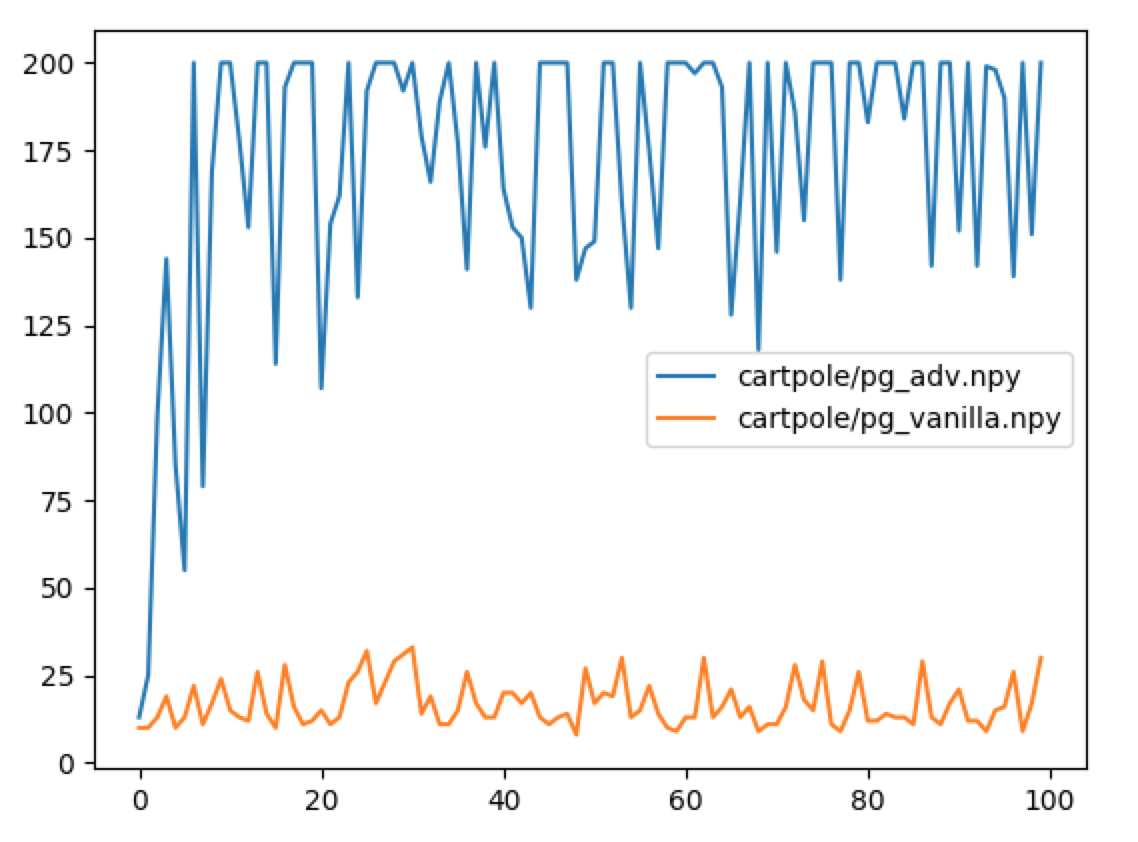
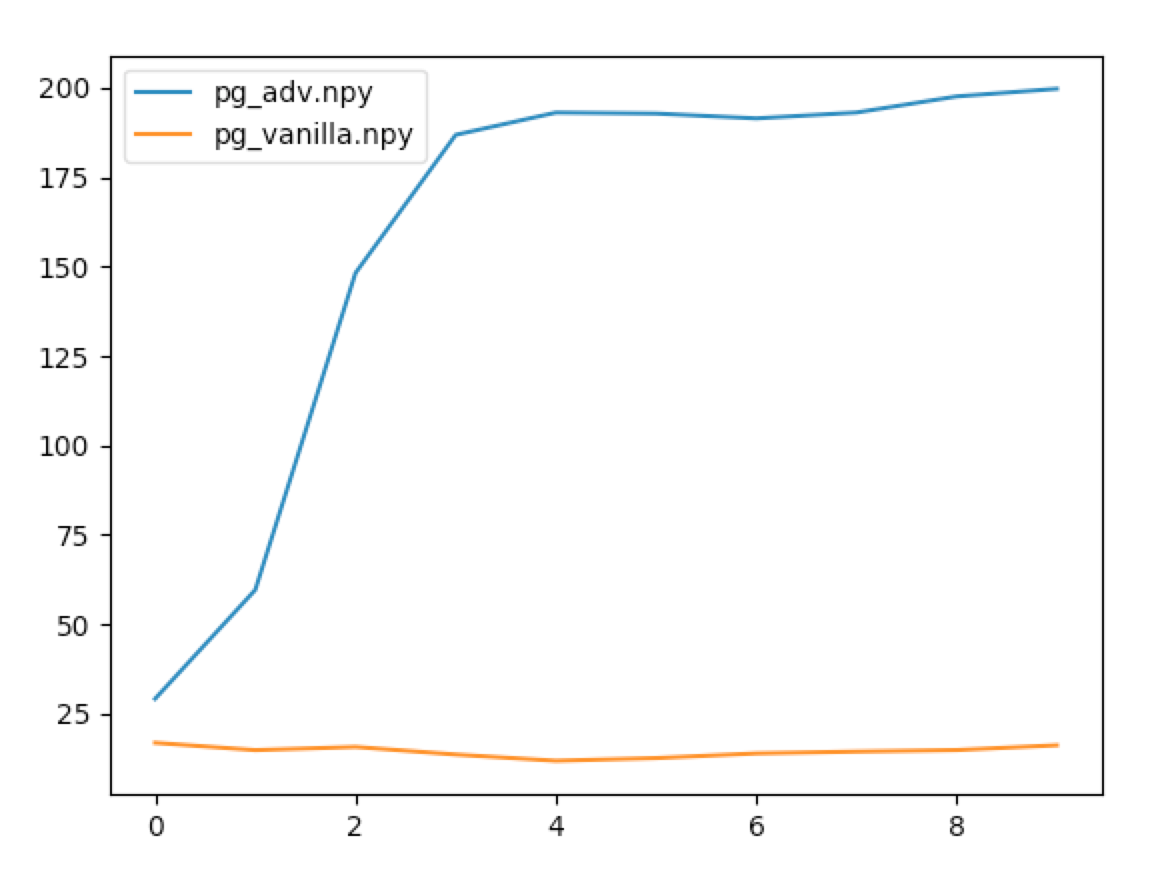
update render util

diff --git a/cartpole/cartpole_pg_vanilla.py b/cartpole/cartpole_pg_vanilla.py
@@ -25,7 +25,6 @@ def run_episode(env, policy_gradient, pl_optimizer):
     observation = env.reset()
     rewards = []
     future_rewards = []
-    loss = 0
     actions = []
     probs = []
     totalreward = 0
@@ -50,21 +49,19 @@ def run_episode(env, policy_gradient, pl_optimizer):
         if done:
             break
 
-    discount = 1
     for i1 in range(len(rewards)):
+        discount = 1
         future_reward = 0
         for i2 in range(i1, len(rewards)):
-            future_reward = discount * rewards[i2]
+            future_reward += discount * rewards[i2]
             discount *= gamma
         future_rewards.append(future_reward)
 
-    # import ipdb
-    # ipdb.set_trace()
     prob_vector = torch.cat(probs)
     action_vector = Variable(Tensor(actions)) # [N, 1]
     good_prob = (prob_vector * action_vector).sum(dim=1).unsqueeze(dim=1)
     reward_vector = Variable(Tensor(rewards).unsqueeze(1))
-    loss = good_prob.log() * reward_vector # [N, 1]
+    loss = (good_prob.log() * reward_vector).sum() # [N, 1]
     loss.backward()
     pl_optimizer.step()
 
@@ -76,7 +73,7 @@ pl_optimizer = optim.Adam(policy_grad.parameters(), lr=0.01)
 
 rewards = []
 
-for i in range(10000):
+for i in range(1000):
     reward = run_episode(env, policy_grad, pl_optimizer)
     rewards.append(reward)
 

diff --git a/utils/render.py b/utils/render.py
@@ -1,21 +1,32 @@
-# from argparse import ArgumentParser
-#
-#
-# parser = ArgumentParser()
-#
-# parser
-
+from argparse import ArgumentParser
 import matplotlib.pyplot as plt
 import numpy as np
+import os
 
 files = ['cartpole/pg_adv.npy', 'cartpole/pg_vanilla.npy']
 
-for file in files:
-    y = np.load(file)[::100]
-    x = range(len(y))
-    plt.plot(x,y, label=file)
-    print(np.max(y))
 
-plt.legend()
-plt.show()
+def transform(data, smooth):
+    return np.mean(data.reshape(-1, smooth), axis=1)
 
+def render_plot(data_dict):
+    for file,data in data_dict.items():
+        plt.plot(range(len(data)),data,label=file)
+    plt.legend()
+    plt.show()
+
+
+if __name__ == '__main__':
+    parser = ArgumentParser()
+    parser.add_argument('files', nargs='+')
+    parser.add_argument('--smooth', type=int, default=100)
+
+    args = parser.parse_args()
+
+    data_dict = {}
+    for file in args.files:
+        data = np.load(os.path.join('data', file))
+        smoothed = transform(data, args.smooth)
+        data_dict[file] = smoothed
+
+    render_plot(data_dict)

diff --git a/cartpole/cartpole_pg_adv.py b/cartpole/cartpole_pg_adv.py
@@ -107,12 +107,9 @@ vl_optimizer = optim.Adam(value_grad.parameters(), lr=0.1)
 
 rewards = []
 
-for i in range(10000):
+for i in range(1000):
     reward, advantages, vl_loss = run_episode(env,policy_grad,value_grad,pl_optimizer,vl_optimizer)
     rewards.append(reward)
-    if i % 100 == 0:
-        print(i, reward, sum(advantages))
-        print(vl_loss[0][0])
 
 rewards = np.array(rewards)
 np.save('pg_adv.npy', rewards)
